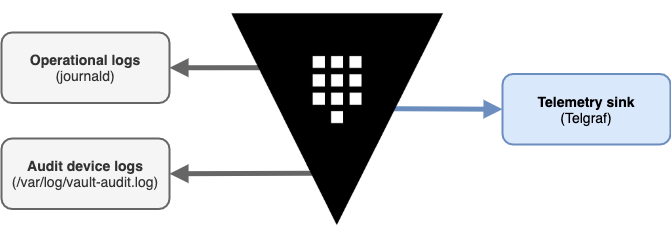
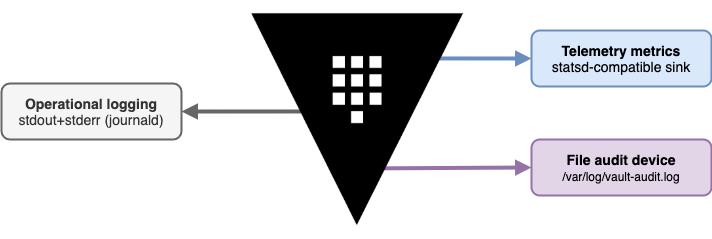
use latest

diff --git a/vault-telemetry-splunk/intro.md b/vault-telemetry-splunk/intro.md
@@ -1,25 +1,25 @@
-<small>Scenario version 0.9.23 accompanies the [Monitoring Telemetry with Splunk guide](#)</small>
+<small>Scenario version 1.0.4 accompanies the [Monitoring Telemetry with Splunk guide](#)</small>
 
 ----
 
-Vault emits rich operational and usage data to provide its users insight and intelligence about the server lifecycle. One such stream of data available from an operating Vault server are [Telemetry Metrics](https://www.vaultproject.io/docs/internals/telemetry).
+Vault emits rich operational and usage data to provide its users insight and intelligence about the server lifecycle. Two such streams of data available from an operating Vault server through [telemetry metrics](https://www.vaultproject.io/docs/internals/telemetry) and [audit device](https://www.vaultproject.io/docs/audit) logs.
 
 <p align=center>
     ![Diagram of Vault operational data](./assets/vault-operational-data.png)
 </p>
 
-<small>In addition to operational and audit logging, Vault can also export telemetry metrics.</small>
+<small>In addition to operational and audit logging, Vault can also export operational data in the form of audit devices and telemetry metrics.</small>
 
-You can [configure telemetry](https://www.vaultproject.io/docs/configuration/telemetry) for either exporting metrics or pulling metrics depending on the solution you use. Aggregated metrics can then be visually analyzed with dashboards and alerted on based on your business and operational criteria.
+You can configure an agent like Fluentd to read a Vault file audit device log and export it to Splunk, and you can also [configure telemetry](https://www.vaultproject.io/docs/configuration/telemetry) for either exporting metrics or pulling metrics depending on the solution you use. Aggregated metrics can then be visually analyzed with dashboards and alerted on based on your business and operational criteria.
 
-This scenario helps you become familiar with Vault telemetry in Splunk. It uses Terraform to automate deployment of a simple Docker based infrastructure featuring a Vault server, a Telegraf agent, and a Splunk server.
+This scenario helps you become familiar with Vault telemetry in Splunk. It uses Terraform to automate deployment of a simple Docker based infrastructure featuring a Vault server, a Fluentd td-agent, a Telegraf agent, and a Splunk server.
 
 You a will gain basic idea of what is possible and help inform your own telemetry aggregation and analysis solution by assembling and using the solution in this scenario.
 
 You will perform these tasks while you work through the scenario:
 
 1. **Start the containers** - this is where Terraform helps to automate deployment. By defining and applying a plan, you can orchestrate the entire deployment, down to all required configuration items for each component of the stack.
-1. **Initialize and unseal Vault** - Prepare Vault for use by initializing it and unsealing it. You will also authenticate to Vault with the initial root token.
+1. **Prepare Vault** - Prepare Vault for use by initializing it and unsealing it. You will also authenticate to Vault with the initial root token and enable a file audit device.
 1. **Access Splunk Web** - Access the Splunk Web UI and initial Vault telemetry metrics.
 1. **Perform actions to generate metrics** - Vault generates some runtime metrics even in an uninitialized and sealed state, but in this step you will generate additional metrics that you can then revisit in Splunk.
 1. **Analyze generated metrics** - Use Splunk Web to analyze, search, and visualize your Vault telemetry metrics including a simple dashboard.

diff --git a/vault-telemetry-splunk/02-prepare-vault.md b/vault-telemetry-splunk/02-prepare-vault.md
@@ -1,5 +1,12 @@
 > Click the command (`⮐`) to automatically copy it into the terminal and execute it.
 
+Now it is time to prepare Vault. You will do the following tasks in this section.
+
+- [Initialize Vault](https://www.vaultproject.io/docs/commands/operator/init)
+- [Unseal Vault](https://www.vaultproject.io/docs/commands/operator/unseal)
+- [Login](https://www.vaultproject.io/docs/commands/login) with the initial root token
+- [Enable a file audit device](https://www.vaultproject.io/docs/audit/file)
+
 The default initialization without arguments results in Vault using the [Shamir's Secret Sharing algorithm](https://en.wikipedia.org/wiki/Shamir%27s_Secret_Sharing) to split the unseal key in to 5 key shares with a required quorum of 3 unseal keys needed to successfully unseal Vault.
 
 For this example, you can use just 1 key share to speed up the manual unseal process.
@@ -8,7 +15,7 @@ For this example, you can use just 1 key share to speed up the manual unseal pro
 
 First, initialize Vault with 1 key share and a key threshold of 1 while saving the output to the file `.vault-init`.
 
-```
+```shell
 vault operator init \
     -key-shares=1 \
     -key-threshold=1 \
@@ -20,13 +27,13 @@ This command should produce no output when successful.
 
 Now, unseal Vault with the **Unseal Key 1** value from the `.vault-init` file.
 
-```
+```shell
 vault operator unseal $(grep 'Unseal Key 1'  .vault-init | awk '{print $NF}')
 ```{{execute T1}}
 
 Successful output from unsealing Vault should resemble this example:
 
-```
+```plaintext
 Key             Value
 ---             -----
 Seal Type       shamir
@@ -42,16 +49,16 @@ HA Enabled      false
 
 > **NOTE:** You will use a root token in this scenario for simplicity. However, in actual production environments, root tokens should be closely guarded and used only for tightly controlled purposes. Review the documentation on [root tokens](https://www.vaultproject.io/docs/concepts/tokens#root-tokens) for more details.
 
-Finally, you can login to Vault with `vault login` by passing the **Initial Root Token** value from `.vault-init` file.
+Now you can login to Vault with `vault login` by passing the **Initial Root Token** value from `.vault-init` file.
 
-```
+```shell
 vault login -no-print \
 $(grep 'Initial Root Token' .vault-init | awk '{print $NF}')
 ```{{execute T1}}
 
 This command should produce no output when successful. If you want to confirm that the login was successful, try a token lookup and confirm that your tokenm policies contain **[root]**.
 
-```
+```shell
 vault token lookup | grep policies
 ```{{execute T1}}
 
@@ -61,6 +68,18 @@ Successful output should contain the following.
 policies            [root]
 ```
 
-You are now ready to check out the Splunk Web interface and existing Vault telemetry metric data.
+Finally, you need to enable a file audit device that Fluentd will read and send to Splunk.
+
+```shell
+vault audit enable file file_path=/vault/logs/vault-audit.log
+```{{execute T1}}
+
+Successful output should contain the following.
+
+```plaintext
+Success! Enabled the file audit device at: file/
+```
+
+You are now ready to access the Splunk Web interface and examine some of the existing Vault telemetry metric data.
 
 Click **Continue** to proceed to step 3.

diff --git a/vault-telemetry-splunk/01-start-containers.md b/vault-telemetry-splunk/01-start-containers.md
@@ -8,7 +8,7 @@ This is done with 3 `terraform` commands, which accomplish the following tasks:
 1. Define a plan
 1. Apply the defined plan
 
-Once the plan is applied, the infrastructure will be fully configured and ready to go.
+Once the plan is applied, the infrastructure will be fully configured and ready to go after the Splunk provisioning completes. The entire process usually requires approximately 4 minutes time.
 
 Begin by initializing the Terraform configuration.
 
@@ -32,7 +32,7 @@ This plan was saved to: vault-metrics-lab.plan
 
 Finally, apply the plan.
 
-> **NOTE:** The apply process will require a bit more than 3 minutes to complete.** The moment after you apply the plan would be a great time to grab a fresh beverage or take a short break.
+> **NOTE: The apply process will require a bit more than 3 minutes to complete.** The moment after you apply the plan would be a great time to grab a fresh beverage or take a short break.
 
 ```shell
 terraform apply vault-metrics-lab.plan

diff --git a/vault-telemetry-splunk/05-analyze-generated-metrics.md b/vault-telemetry-splunk/05-analyze-generated-metrics.md
@@ -1,4 +1,4 @@
-Now that you have generated some leases, secrets, and tokens, click the **Splunk Web** tab and explore those updated metrics.
+Now that you have generated some leases, secrets, and tokens, go back to your **Splunk Web** browser tab and explore those updated metrics.
 
 First, click the **Refresh** button in the center section to provide you with the latest metrics you recently generated.. Note that due to interface scaling, it can appear abbreviated as **Ref...**.
 
@@ -33,9 +33,8 @@ Check out the **cpu.usage.guest** metric
 1. Scroll to the metrics under **cpu.usage** and observe the updates there.
 1. Click **guest** under **cpu.usage**.
 
-
 ### Dashboard
 
 To save a dashboard of all currently selected metrics, follow these steps.
 
-TODO: Dashboard steps
+TODO: Dashboard steps will be added when finished in guide!

diff --git a/vault-telemetry-splunk/03-access-splunk-web.md b/vault-telemetry-splunk/03-access-splunk-web.md
@@ -1,4 +1,4 @@
-Now that your infrastructure is ready, you can access the **Splunk Web** tab here in the scenario navigation to examine the initial Vault telemetry metrics present there.
+Now that your infrastructure is ready, you can access [Splunk Web](https://[[HOST_SUBDOMAIN]]-8000-[[KATACODA_HOST]].environments.katacoda.com) in a separate browser tab to examine the initial Vault telemetry metrics present there.
 
 Sign in to Splunk Web with these credentials:
 

diff --git a/vault-telemetry-splunk/04-perform-actions-to-generate-metrics.md b/vault-telemetry-splunk/04-perform-actions-to-generate-metrics.md
@@ -2,11 +2,7 @@
 
 This step will help guide you to generate new data in Vault and as a result, updated telemetry metrics in Splunk.
 
-You will use the `vault` CLI for these steps, so run the following command to ensure that you are back in the **Terminal** tab.
-
-```shell
-echo "Welcome back to the terminal."
-```{{execute T1}}
+You will use the `vault` CLI for these steps.
 
 ## K/V version 2 secrets
 
